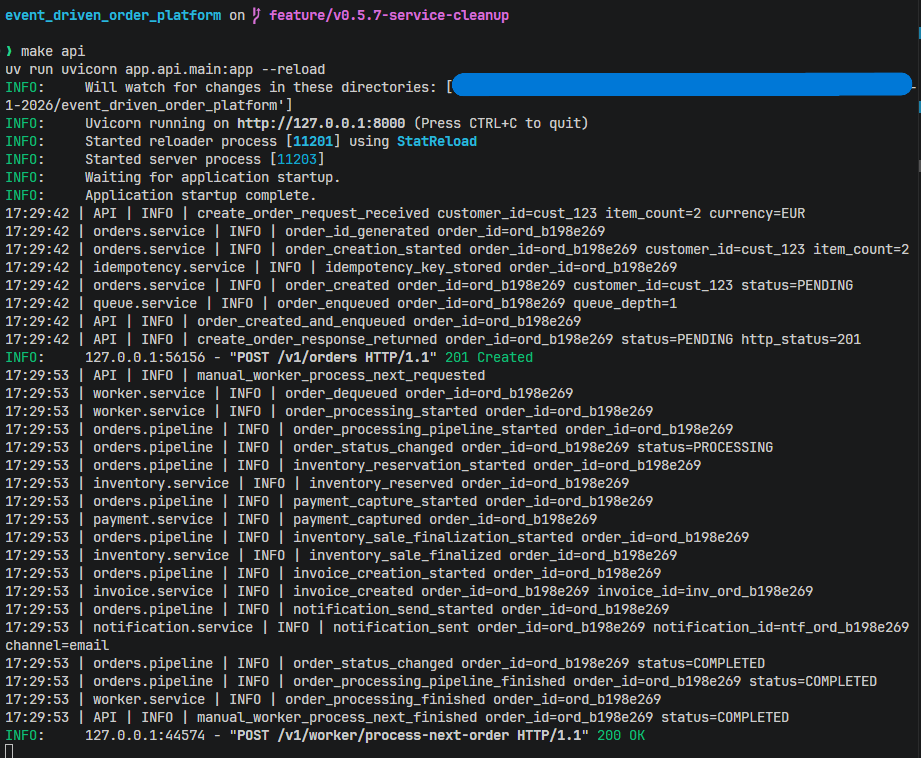
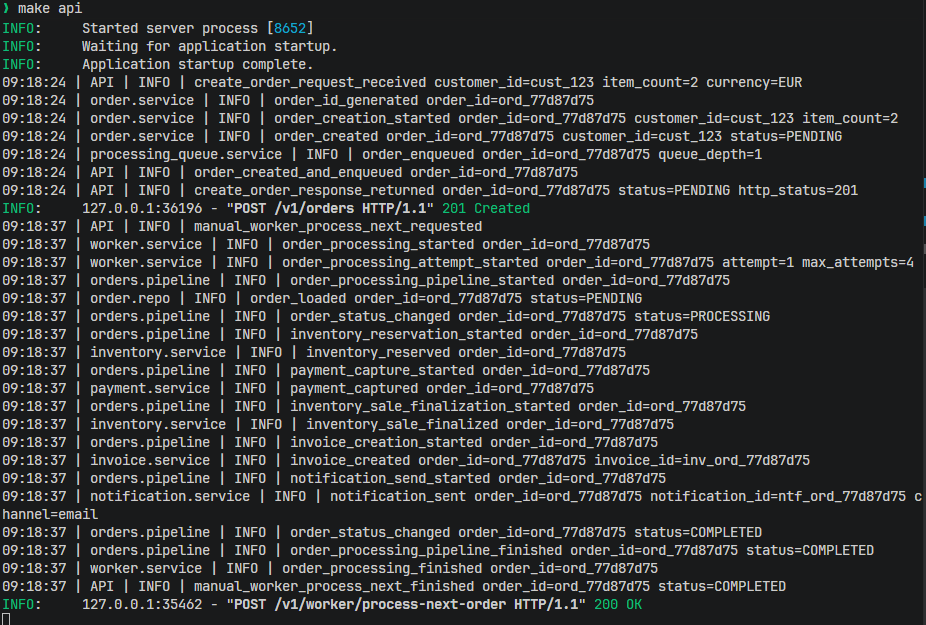
Add v0.6.2 LinkedIn recap assets and cleanup

diff --git a/README.md b/README.md
@@ -169,6 +169,18 @@ Standalone worker processing queued work:
 
 <img src="docs/screenshots/03-standalone-worker.png" width="900">
 
+Retry/backoff attempts in the worker:
+
+<img src="docs/screenshots/04-retry-logs-worker-service.png" width="900">
+
+Failed order state after retry exhaustion:
+
+<img src="docs/screenshots/05-api-response-from-retry.png" width="900">
+
+Initial pytest coverage for the order pipeline:
+
+<img src="docs/screenshots/06-tests-foundation.png" width="900">
+
 ## AWS Mapping
 
 The local implementation is designed to map to AWS later: